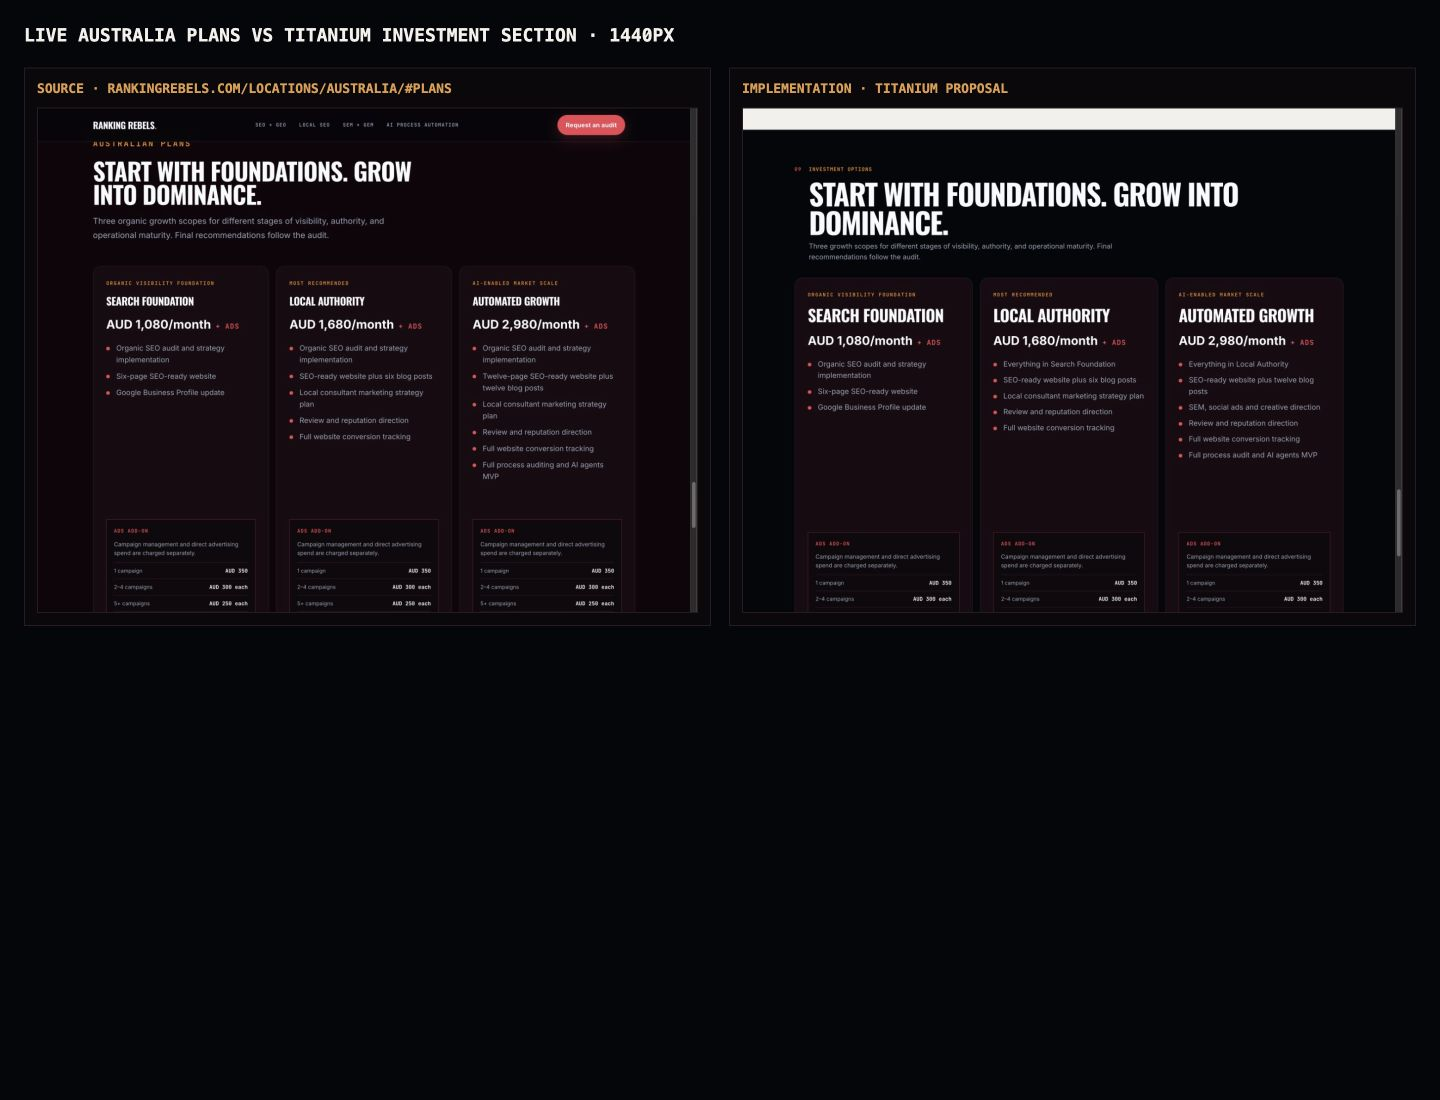
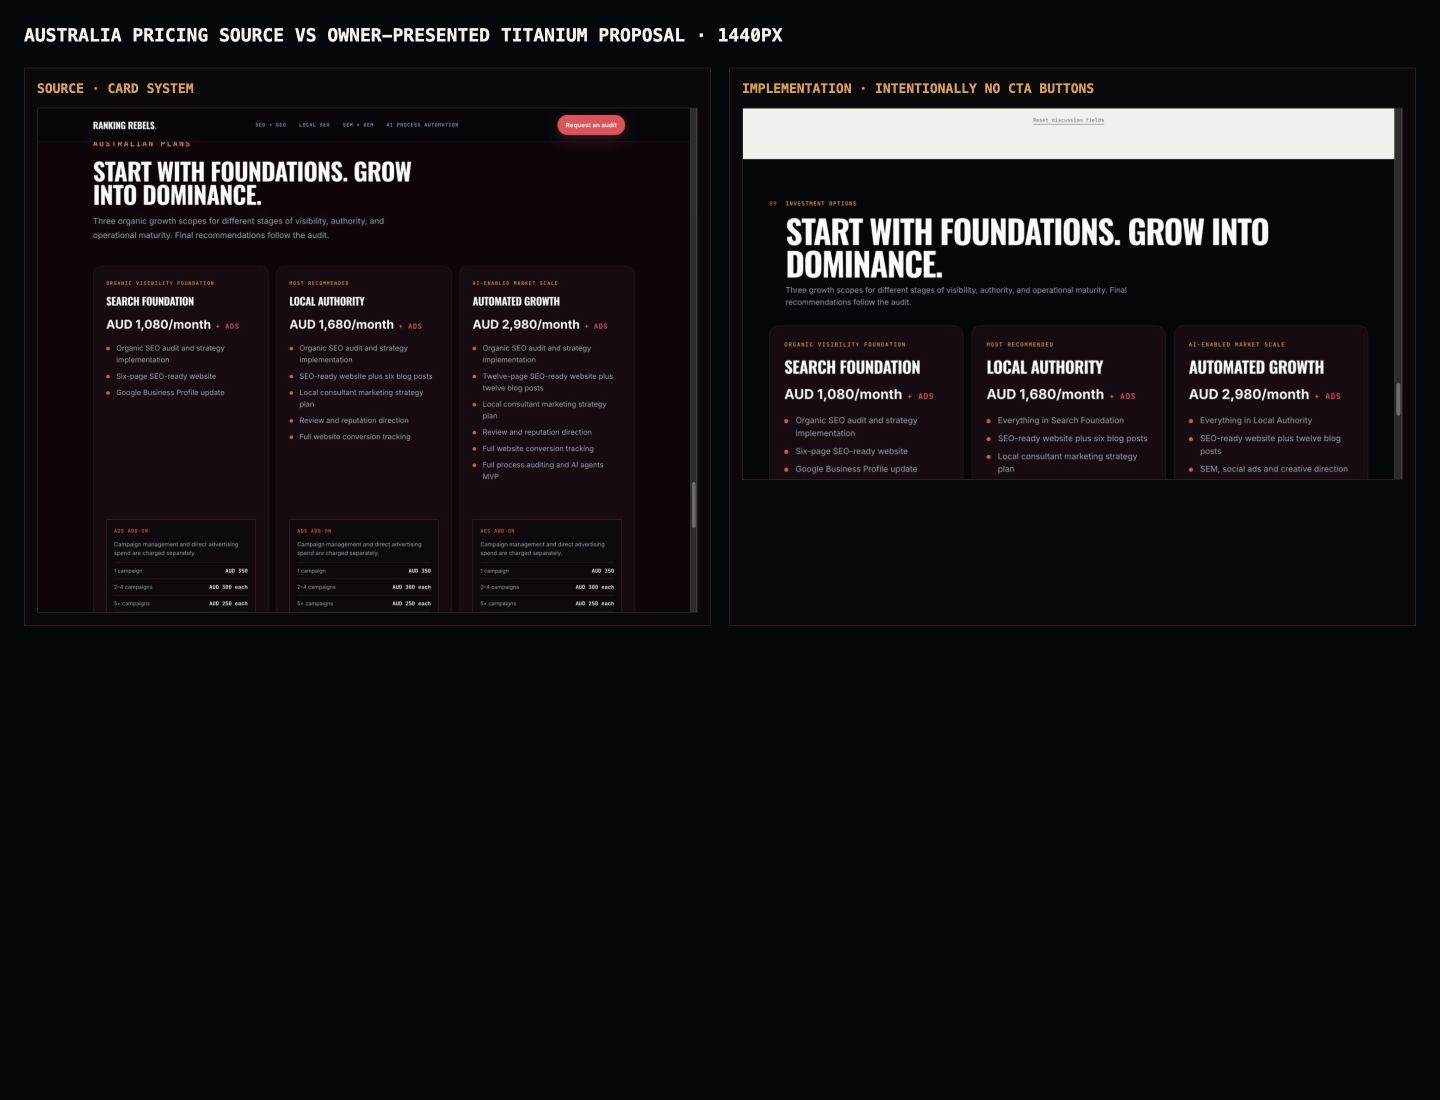
fix the price plans remove the button

diff --git a/proposals/titanium-gym-9c42e7/index.html b/proposals/titanium-gym-9c42e7/index.html
@@ -13,7 +13,7 @@
     <link rel="preconnect" href="https://fonts.googleapis.com">
     <link rel="preconnect" href="https://fonts.gstatic.com" crossorigin>
     <link href="https://fonts.googleapis.com/css2?family=Inter:wght@400;500;600;700&amp;family=JetBrains+Mono:wght@400;500;600;700&amp;family=Material+Symbols+Outlined:opsz,wght,FILL,GRAD@24,400,0,0&amp;family=Oswald:wght@500;600;700&amp;display=swap" rel="stylesheet">
-    <link rel="stylesheet" href="/proposals/titanium-gym-9c42e7/styles.css?v=20260822-3">
+    <link rel="stylesheet" href="/proposals/titanium-gym-9c42e7/styles.css?v=20260822-4">
     <script src="/proposals/titanium-gym-9c42e7/script.js" defer></script>
   </head>
   <body>
@@ -210,7 +210,6 @@
             <p class="price plan-price"><span class="plan-price-main">AUD 1,080/month</span><span class="plan-price-extra">+ Ads</span></p>
             <ul class="feature-list"><li>Organic SEO audit and strategy implementation</li><li>Six-page SEO-ready website</li><li>Google Business Profile update</li></ul>
             <div class="plan-ads" aria-label="Ads add-on pricing"><p class="plan-ads-label">Ads add-on</p><p class="plan-ads-note">Campaign management and direct advertising spend are charged separately.</p><dl class="plan-ads-rates"><div><dt>1 campaign</dt><dd>AUD 350</dd></div><div><dt>2–4 campaigns</dt><dd>AUD 300 each</dd></div><div><dt>5+ campaigns</dt><dd>AUD 250 each</dd></div></dl><p class="plan-ads-report">Monthly visibility report included.</p></div>
-            <a class="button button-outline" href="#discussion">Discuss in person</a>
           </article>
           <article class="price-card featured">
             <p class="plan-label">Most recommended</p>
@@ -218,7 +217,6 @@
             <p class="price plan-price"><span class="plan-price-main">AUD 1,680/month</span><span class="plan-price-extra">+ Ads</span></p>
             <ul class="feature-list"><li>Everything in Search Foundation</li><li>SEO-ready website plus six blog posts</li><li>Local consultant marketing strategy plan</li><li>Review and reputation direction</li><li>Full website conversion tracking</li></ul>
             <div class="plan-ads" aria-label="Ads add-on pricing"><p class="plan-ads-label">Ads add-on</p><p class="plan-ads-note">Campaign management and direct advertising spend are charged separately.</p><dl class="plan-ads-rates"><div><dt>1 campaign</dt><dd>AUD 350</dd></div><div><dt>2–4 campaigns</dt><dd>AUD 300 each</dd></div><div><dt>5+ campaigns</dt><dd>AUD 250 each</dd></div></dl><p class="plan-ads-report">Monthly visibility report included.</p></div>
-            <a class="button button-primary" href="#discussion">Discuss in person</a>
           </article>
           <article class="price-card">
             <p class="plan-label">AI-enabled market scale</p>
@@ -226,7 +224,6 @@
             <p class="price plan-price"><span class="plan-price-main">AUD 2,980/month</span><span class="plan-price-extra">+ Ads</span></p>
             <ul class="feature-list"><li>Everything in Local Authority</li><li>SEO-ready website plus twelve blog posts</li><li>SEM, social ads and creative direction</li><li>Review and reputation direction</li><li>Full website conversion tracking</li><li>Full process audit and AI agents MVP</li></ul>
             <div class="plan-ads" aria-label="Ads add-on pricing"><p class="plan-ads-label">Ads add-on</p><p class="plan-ads-note">Campaign management and direct advertising spend are charged separately.</p><dl class="plan-ads-rates"><div><dt>1 campaign</dt><dd>AUD 350</dd></div><div><dt>2–4 campaigns</dt><dd>AUD 300 each</dd></div><div><dt>5+ campaigns</dt><dd>AUD 250 each</dd></div></dl><p class="plan-ads-report">Monthly visibility report included.</p></div>
-            <a class="button button-outline" href="#discussion">Discuss in person</a>
           </article>
         </div>
       </section>

diff --git a/tests/titanium-proposal.test.js b/tests/titanium-proposal.test.js
@@ -72,16 +72,15 @@ test("coverage, audit placeholders and business levers are complete", () => {
   assert.doesNotMatch(html, /guaranteed|first-page guarantee|#1 ranking/i);
 });
 
-test("Australia plan pricing is copied accurately with discussion CTAs", () => {
+test("Australia plan pricing is copied accurately for an in-person presentation", () => {
   assert.match(html, /Start with foundations\. Grow into dominance\./);
   assert.match(html, /Final recommendations follow the audit\./);
   ["AUD 1,080", "AUD 1,680", "AUD 2,980", "AUD 350", "AUD 300 each", "AUD 250 each"]
     .forEach((price) => assert.ok(html.includes(price), `${price} should be present`));
-  assert.equal((html.match(/Discuss in person/g) || []).length, 3);
+  assert.equal((html.match(/Discuss in person/g) || []).length, 0);
   assert.equal((html.match(/class="price-card(?: featured)?"/g) || []).length, 3);
   assert.equal((html.match(/class="plan-ads"/g) || []).length, 3);
-  assert.match(html, /class="button button-primary"/);
-  assert.equal((html.match(/class="button button-outline"/g) || []).length, 2);
+  assert.doesNotMatch(html, /class="button button-(?:primary|outline)"/);
   ["Everything in Search Foundation", "Everything in Local Authority", "SEM, social ads and creative direction"]
     .forEach((scope) => assert.ok(html.includes(scope), `${scope} should be preserved`));
   assert.match(styles, /\.price-card\.featured \{ border-color: var\(--border\); background: var\(--surface-card\); \}/);

diff --git a/proposals/titanium-gym-9c42e7/styles.css b/proposals/titanium-gym-9c42e7/styles.css
@@ -416,12 +416,6 @@ h3 { font-size: 25px; }
 .plan-ads-rates dd { color: var(--neutral); font-family: var(--mono); font-weight: 700; text-align: right; }
 .plan-ads-report { position: relative; padding-left: 14px; color: var(--neutral); line-height: 1.45; }
 .plan-ads-report::before { position: absolute; top: .46em; left: 0; width: 6px; height: 6px; border-radius: 50%; background: var(--tertiary); content: ""; }
-.investment .button { display: inline-flex; align-items: center; justify-content: center; width: 100%; min-height: 44px; margin-top: 0; padding: 12px 18px; border-radius: 999px; font-size: .84rem; font-weight: 800; line-height: 1.15; text-align: center; text-decoration: none; transition: transform 150ms ease, border-color 150ms ease, background 150ms ease, box-shadow 150ms ease; }
-.investment .button-primary { background: var(--tertiary); color: #fff; box-shadow: 0 8px 28px rgba(255,48,79,.24); }
-.investment .button-primary:hover { background: #e72a46; box-shadow: 0 12px 34px rgba(255,48,79,.34); transform: translateY(-2px); }
-.investment .button-outline { border: 1px solid var(--border); background: var(--surface-card); color: var(--neutral); }
-.investment .button-outline:hover { border-color: var(--neutral); transform: translateY(-2px); }
-
 .discussion { display: grid; grid-template-columns: .85fr 1.15fr; gap: 80px; align-items: center; border-bottom: 0; }
 .discussion .section-heading { margin-bottom: 30px; }
 .discussion h2 { margin-bottom: 20px; }

diff --git a/design-qa.md b/design-qa.md
@@ -29,7 +29,7 @@ The combined comparison places the complete approved composition beside the full
 - Hero: Oswald scale, line breaks, coral emphasis, monochrome Titanium imagery, and private-proposal treatment match the selected direction. “WHEREVER” is a single no-wrap line at 1425px, 1009px, 753px, and 375px content widths.
 - Two business levers: split panel, service grouping, central plus, thin coral borders, and separate AI opportunity match the reference.
 - Growth system: three connected pillars and shared measurement rail match the approved replacement section.
-- Investment: the proposal uses the Australia page's `price-card`, `plan-label`, `plan-price`, `feature-list`, `plan-ads`, and pill-button treatments. The side-by-side comparison confirms three clearly separated burgundy boxes with matching neutral borders, coral bullets, rounded corners, price hierarchy, and ads panels while retaining proposal-specific scopes and “Discuss in person.”
+- Investment: the proposal uses the Australia page's `price-card`, `plan-label`, `plan-price`, `feature-list`, and `plan-ads` treatments. The side-by-side comparison confirms three clearly separated burgundy boxes with matching neutral borders, coral bullets, rounded corners, price hierarchy, and ads panels while retaining proposal-specific scopes. Plan CTAs are intentionally omitted for the owner-presented meeting format.
 - Platform coverage: local brand marks replace the initial generic icon treatment. ChatGPT now uses a proposal-local, viewport-cropped copy of the supplied white Blossom mark; all ten platforms remain labelled “To verify.”
 
 ## Required fidelity surfaces
@@ -54,7 +54,7 @@ The combined comparison places the complete approved composition beside the full
    - All ten platform assets/labels render; local image load checks pass.
    - Desktop, tablet, and mobile report no horizontal overflow.
    - The proposal route reports no console errors or warnings.
-   - “Discuss in person” navigates to `#discussion`; the editable timeline field accepts keyboard input.
+   - The editable timeline field accepts keyboard input.
 4. Feedback revision pass
    - [P2] “WHEREVER” broke inside the word at desktop width.
    - [P2] The previous ChatGPT mark was not visible in platform coverage.
@@ -78,6 +78,9 @@ The combined comparison places the complete approved composition beside the full
    - Replaced the heading with “Start with foundations. Grow into dominance.” and added the source's audit-led explanatory line.
    - Matched all three plan boxes to the same burgundy surface, neutral border, 18px radius, 28px padding, and 16px inter-card gap. The middle plan remains recommended through its label and primary CTA.
    - Desktop source/implementation comparison and the 375px mobile check show three distinct cards, one-column mobile stacking, and zero horizontal overflow.
+9. Owner-presented pricing mode
+   - Removed all three “Discuss in person” buttons because the proposal will be presented directly beside the Titanium Gym owner.
+   - Removed the now-unused investment button styling; card height and ads-panel alignment remain consistent.
 
 ## Findings
 
